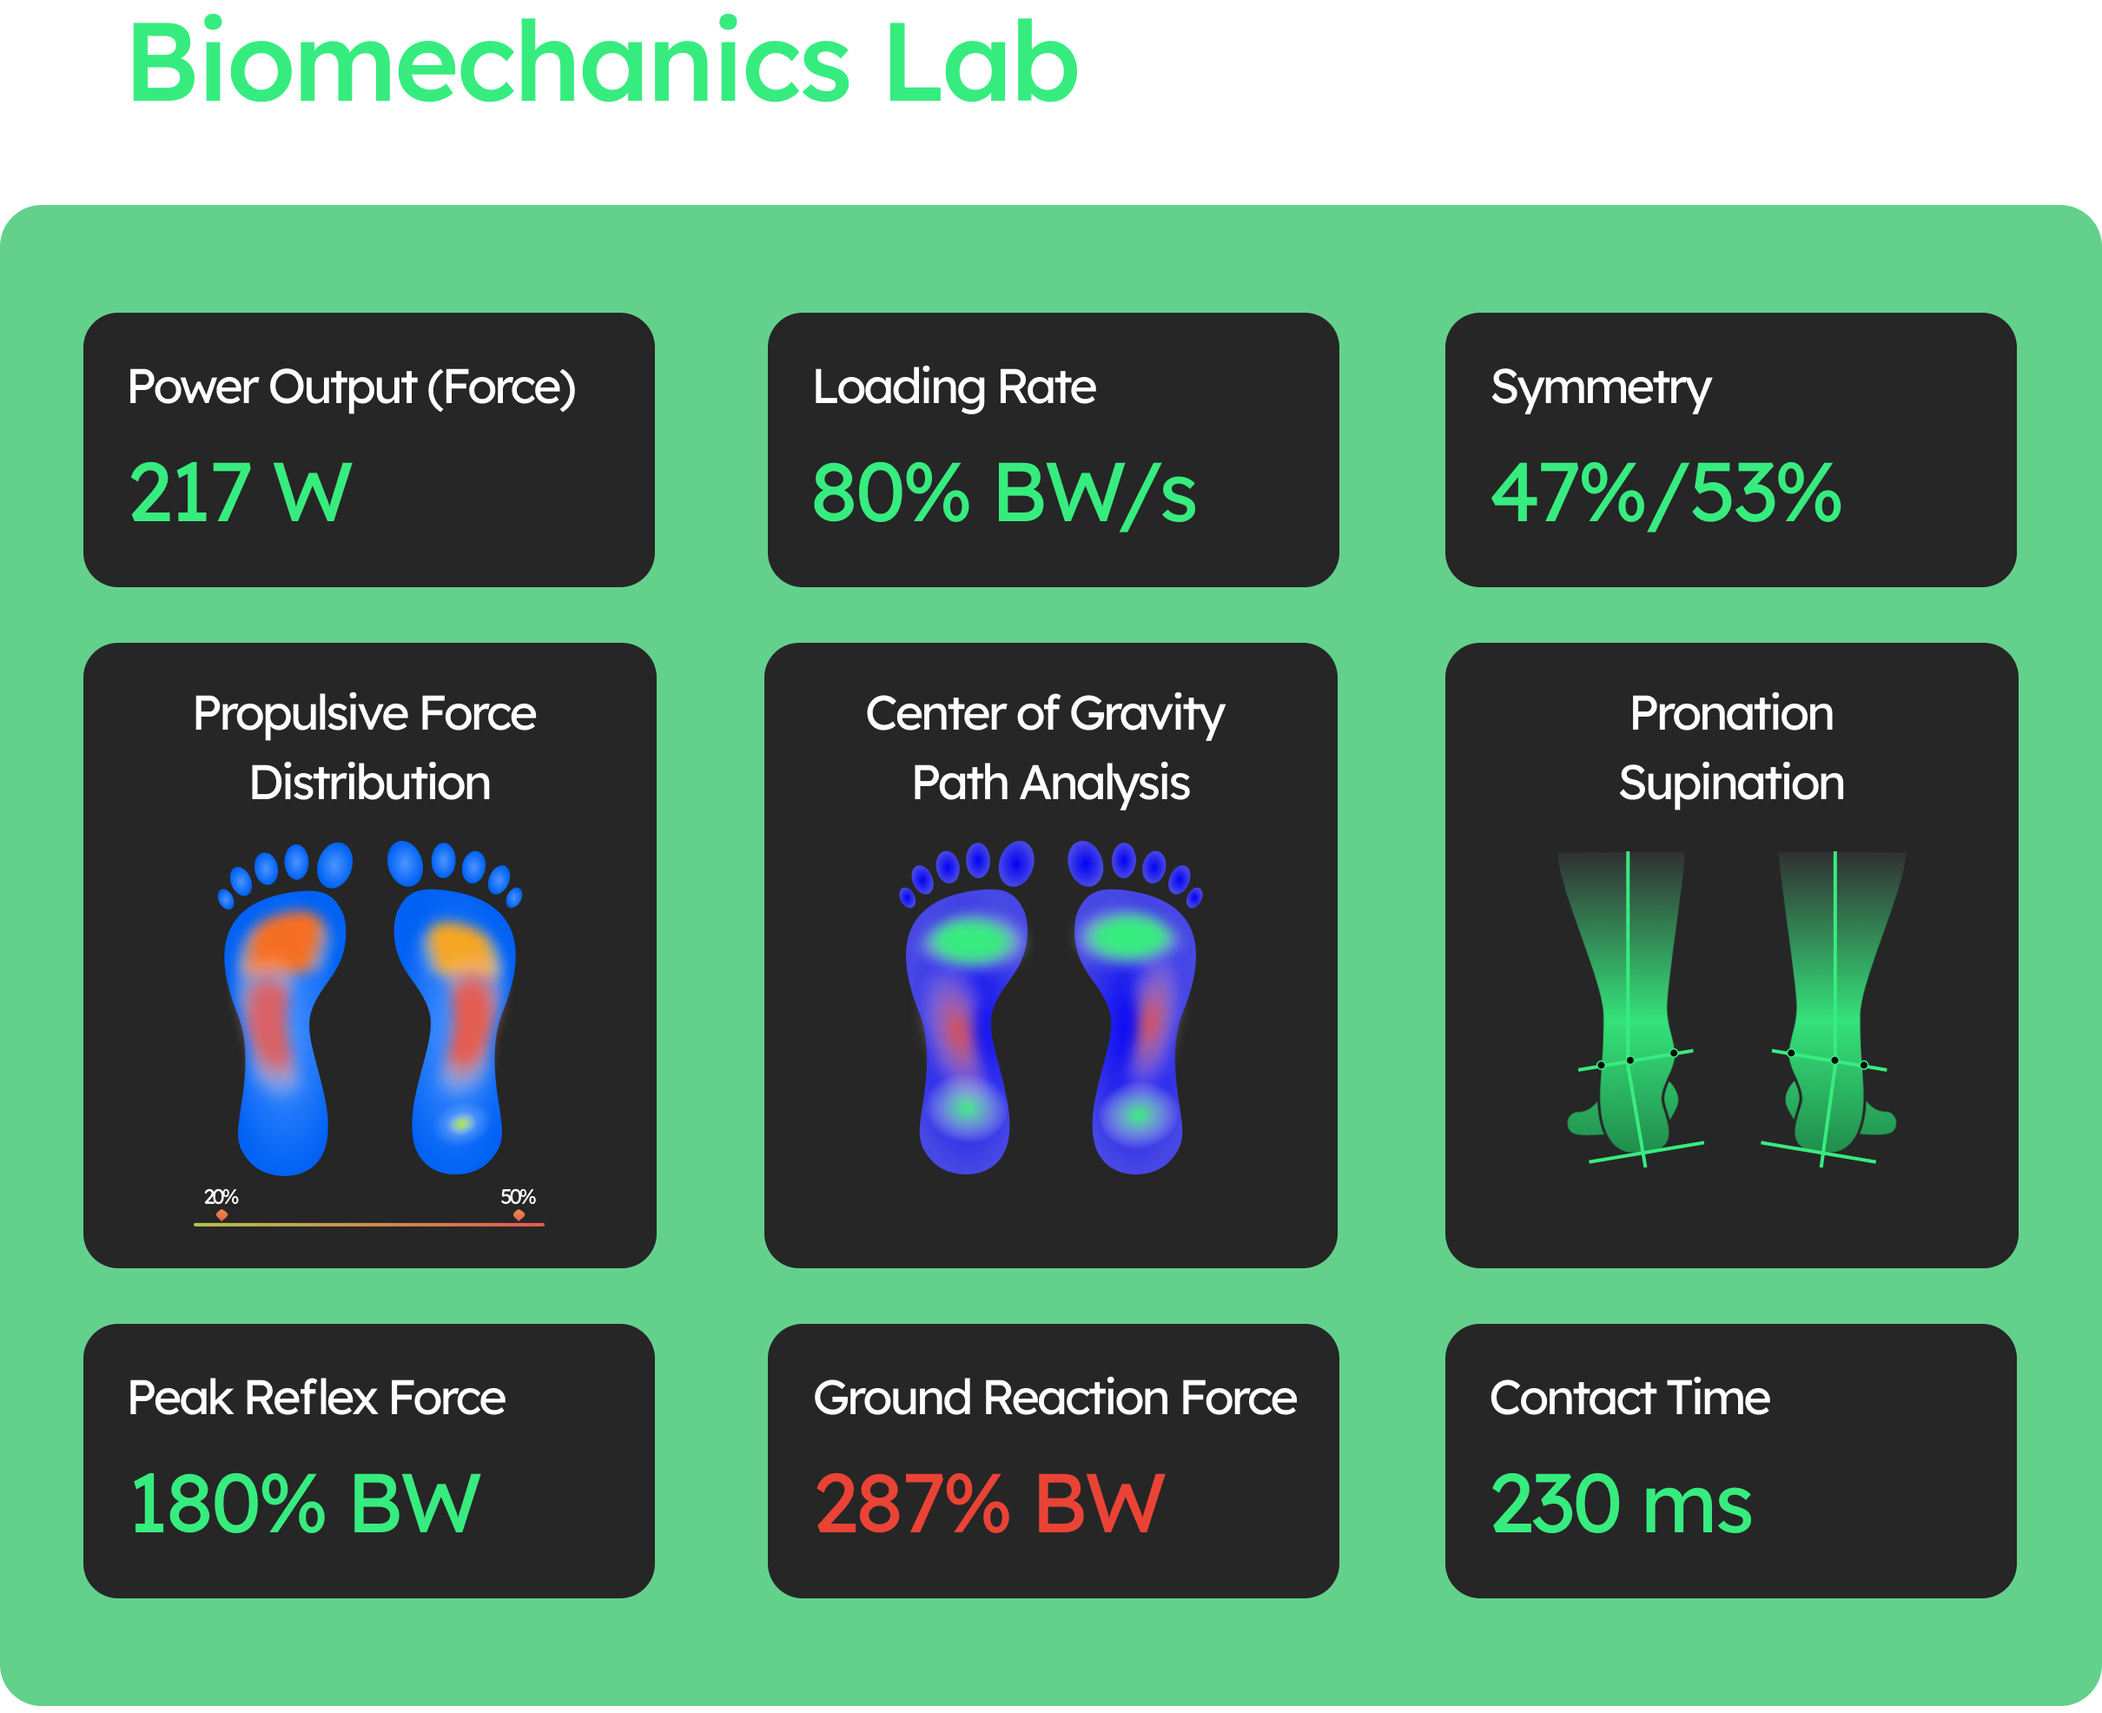
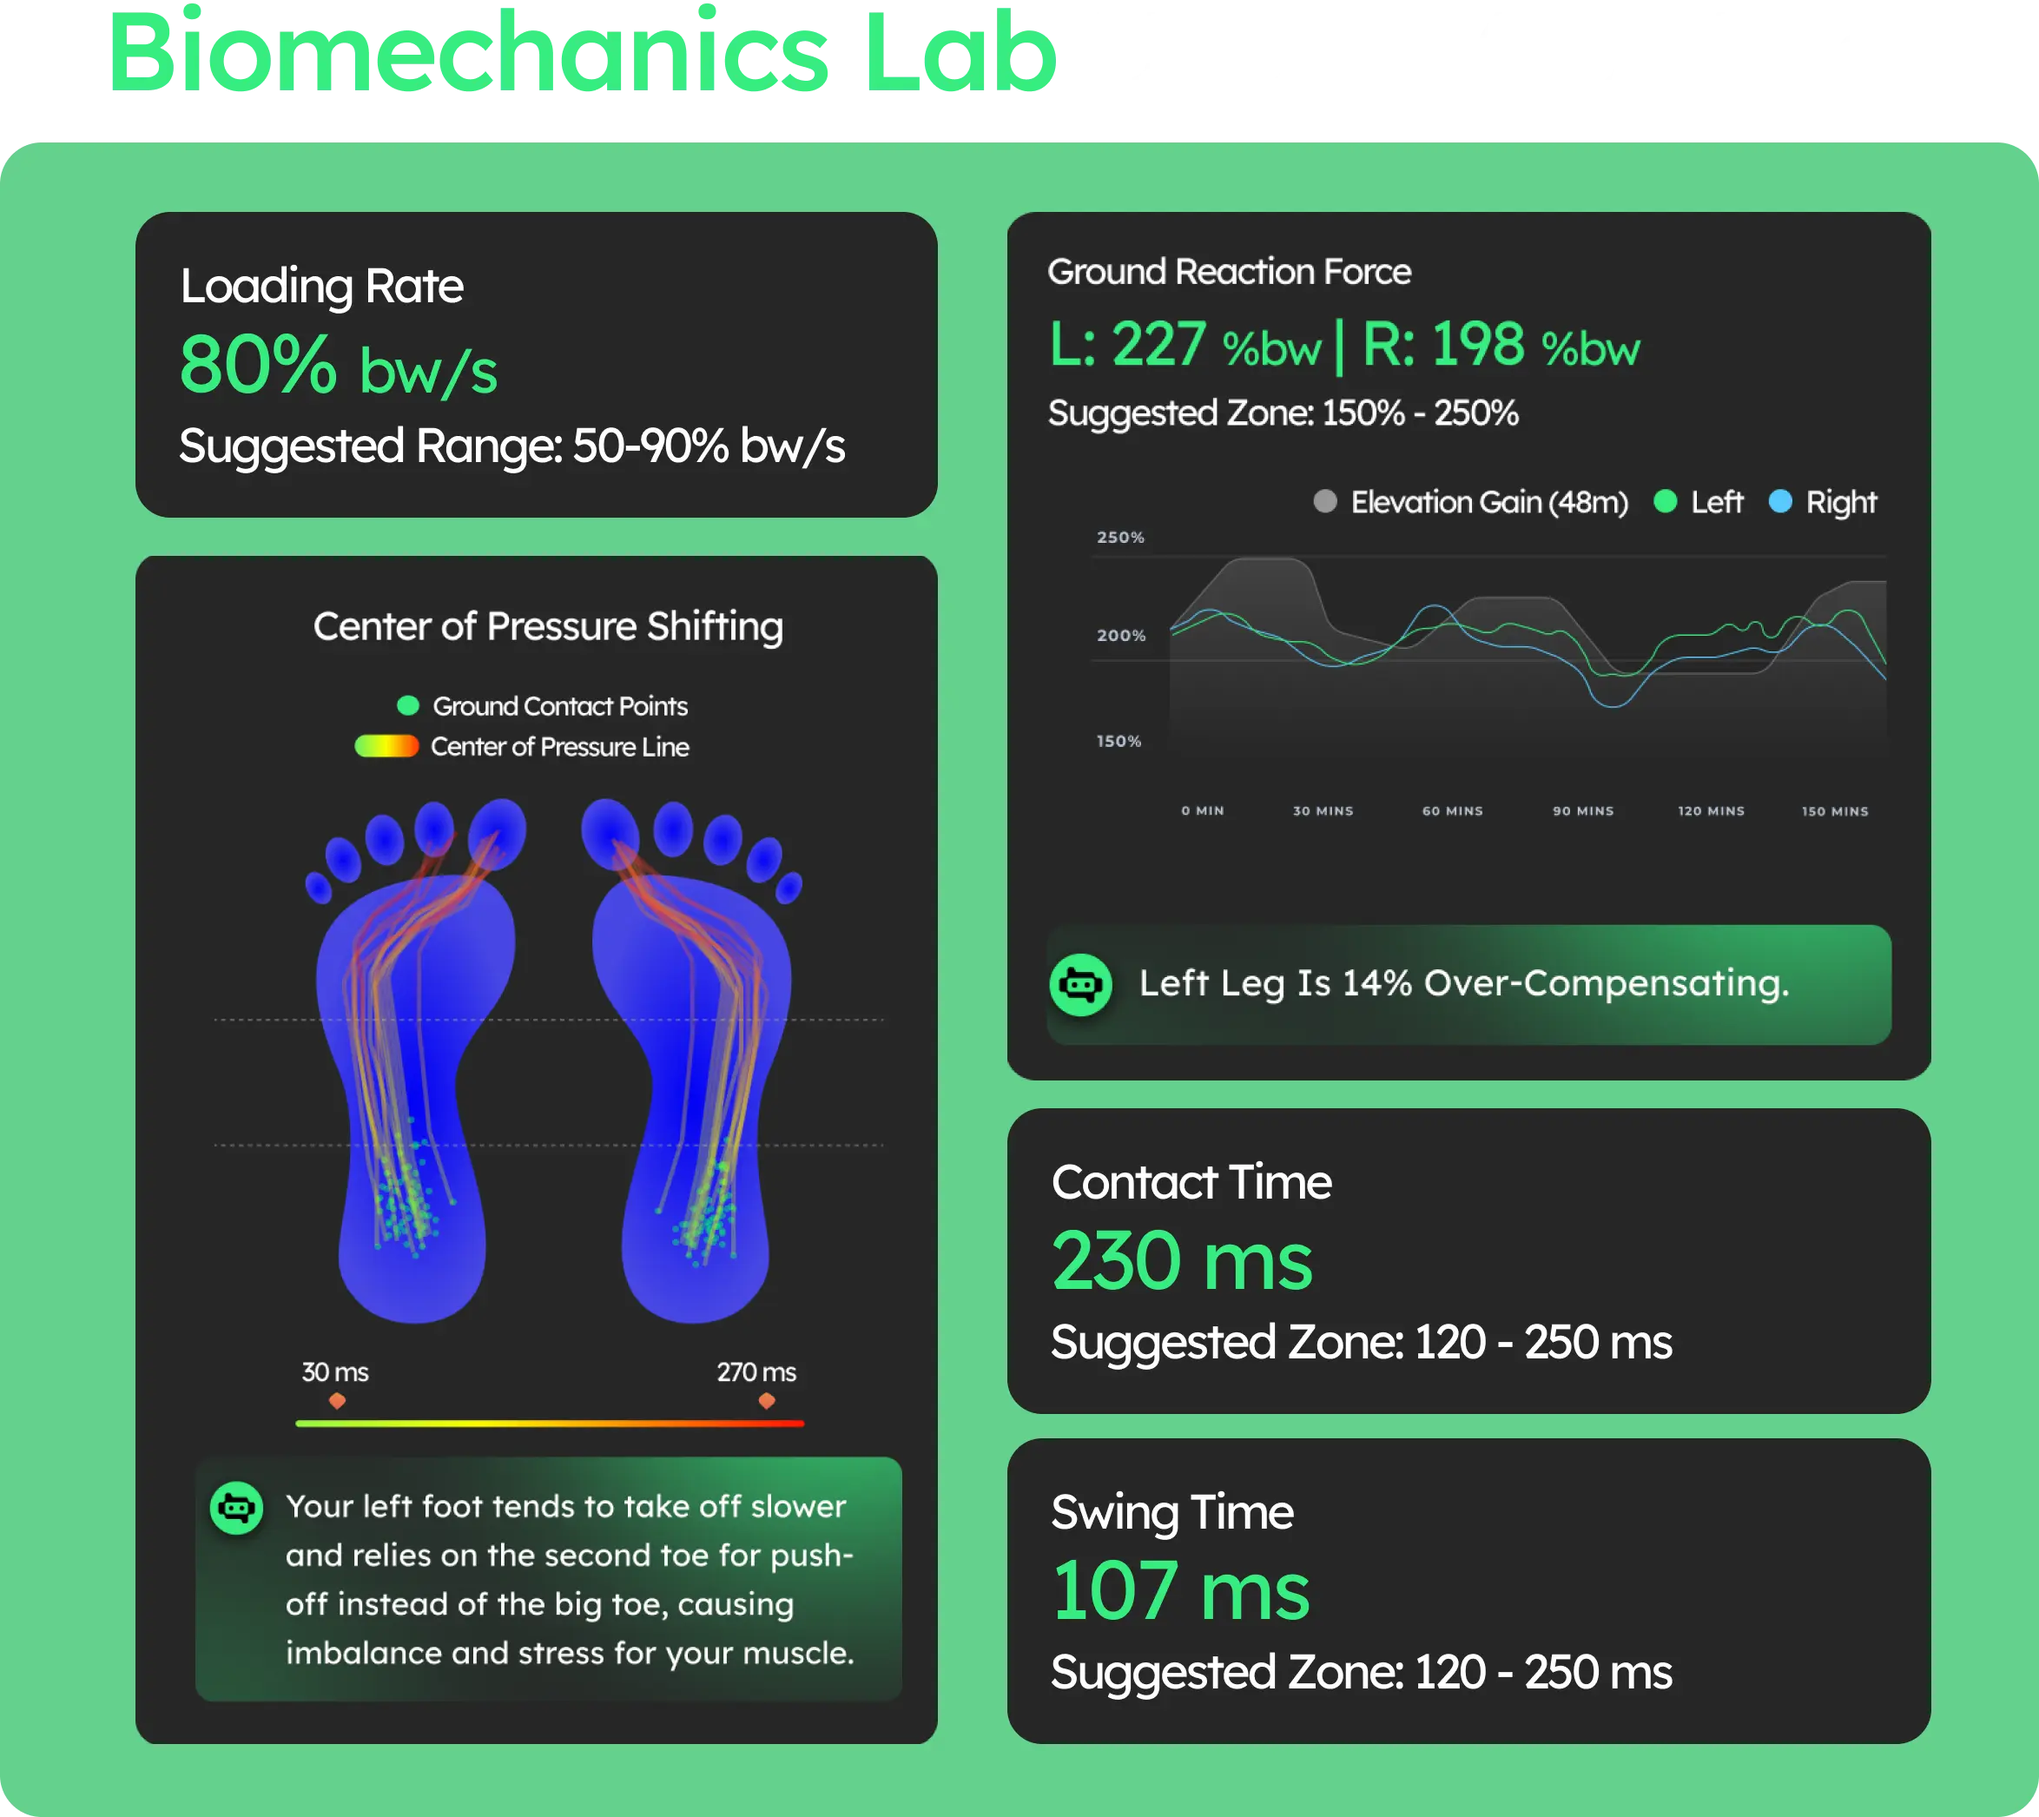
updates

diff --git a/index.html b/index.html
@@ -134,7 +134,7 @@
                     arrowEl.src = "assets/arrow-right-top-bold.svg"
 
                     displayImage.src = "assets_webp/biomechanics_lab.webp"
-                    displayImage.className = "rounded-2xl aspect-[1.22522523] w-[55%] hidden sm:block"    
+                    displayImage.className = "rounded-2xl aspect-[1.15678776] w-[55%] hidden sm:block"    
                 } else {
                     if(index == 0) titleEl.classList.add("font-bold")
 
@@ -142,7 +142,7 @@
                     arrowEl.src = "assets/arrow-right-top-bold.svg"
                     
                     displayImage.src = "assets_webp/biomechanics_lab.webp"
-                    displayImage.className = "rounded-2xl aspect-[1.22522523] sm:hidden mt-10 sm:mt-0"
+                    displayImage.className = "rounded-2xl aspect-[1.15678776] sm:hidden mt-10 sm:mt-0"
                 }
                 item.addEventListener('mouseover', () => {
                     const imageName = item.getAttribute('data-image');
@@ -717,7 +717,7 @@ height="0" width="0" style="display:none;visibility:hidden"></iframe></noscript>
                     <!-- </> -->
                 <li data-image="assets_webp/high-density-sensor.webp" class="group border-bottom-white">
                     <div class="flex py-3 flex-row">
-                        <a class="title max-sm:flex-1 no-underline text-14-lexend uppercase text-left sm:text-[32px]">Advanced Sensors & AI
+                        <a class="title max-sm:flex-1 no-underline text-14-lexend uppercase text-left sm:text-[32px]">AI Coach At Your Side
                         </a>
                         <img class="arrow h-9 w-9 mt-1 hidden"></img>
                     </div>
@@ -738,7 +738,7 @@ height="0" width="0" style="display:none;visibility:hidden"></iframe></noscript>
 
             </ul>
             <p class="w-[20px] sm:w-[72px]"></p>
-            <img id="displayImage" class="rounded-2xl aspect-[1.22522523] w-[55%] hidden sm:block" src="assets_webp/biomechanics_lab.webp">
+            <img id="displayImage" class="rounded-2xl aspect-[1.15678776] w-[55%] hidden sm:block" src="assets_webp/biomechanics_lab.webp">
         </div>    
 
         <p class="text-24-lexend mt-20 mb-6 max-sm:uppercase text-white sm:text-[42px]">What Athletes Are Saying:</p>
